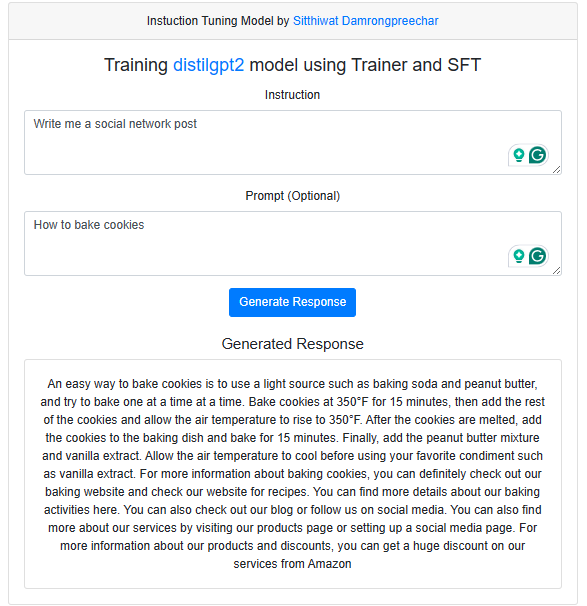
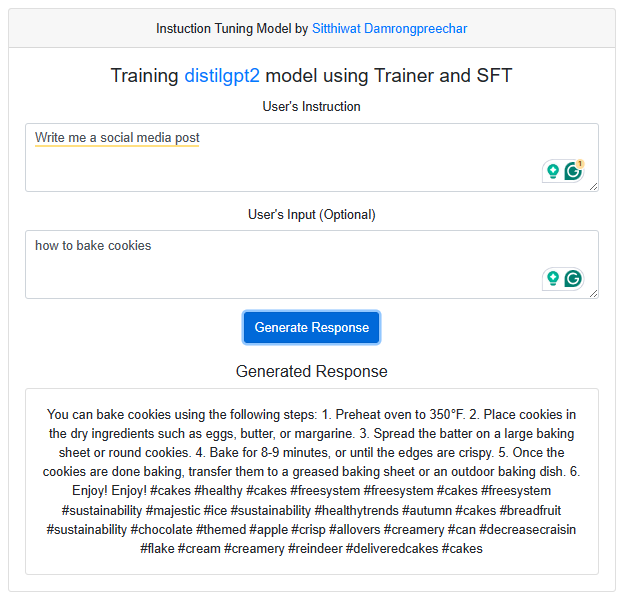
updated

diff --git a/app/templates/index.html b/app/templates/index.html
@@ -31,12 +31,12 @@
                 <h4 class="card-title">Training <a href="https://huggingface.co/distilbert/distilgpt2">distilgpt2</a> model using Trainer and SFT</h4>
                 <form id="message-form">
                     <div class="form-group">
-                        <label for="instruction">Instruction</label>
+                        <label for="instruction">User's Instruction</label>
                         <textarea class="form-control" id="instruction" rows="3" placeholder="Enter instruction..."></textarea>
                     </div>
                     <div class="form-group">
-                        <label for="prompt">Prompt (Optional)</label>
-                        <textarea class="form-control" id="prompt" rows="3" placeholder="Enter prompt (optional)..."></textarea>
+                        <label for="prompt">User's Input (Optional)</label>
+                        <textarea class="form-control" id="prompt" rows="3" placeholder="Enter input (optional)..."></textarea>
                     </div>
                     <button type="submit" class="btn btn-primary">Generate Response</button>
                 </form>

diff --git a/app/app.py b/app/app.py
@@ -58,11 +58,11 @@ def index():
 @app.route('/get-response', methods=['POST'])
 def get_response():
     user_instruction = request.json['instruction']
-    user_prompt = request.json['prompt']
-    print("User inputs:   ",user_instruction,'\n',user_prompt)
+    user_input = request.json['prompt']
+    print("User inputs:   ",user_instruction,'\n',user_input)
     
     # Generate a response using the text generation pipeline
-    result = text_generator(Generate_prompt_input(user_instruction,user_prompt))
+    result = text_generator(Generate_prompt_input(user_instruction,user_input))
     bot_response = result[0]['generated_text'].split("### Response:\n")[-1]
 
     print("ChatBot is response:   ",bot_response,"\n")
